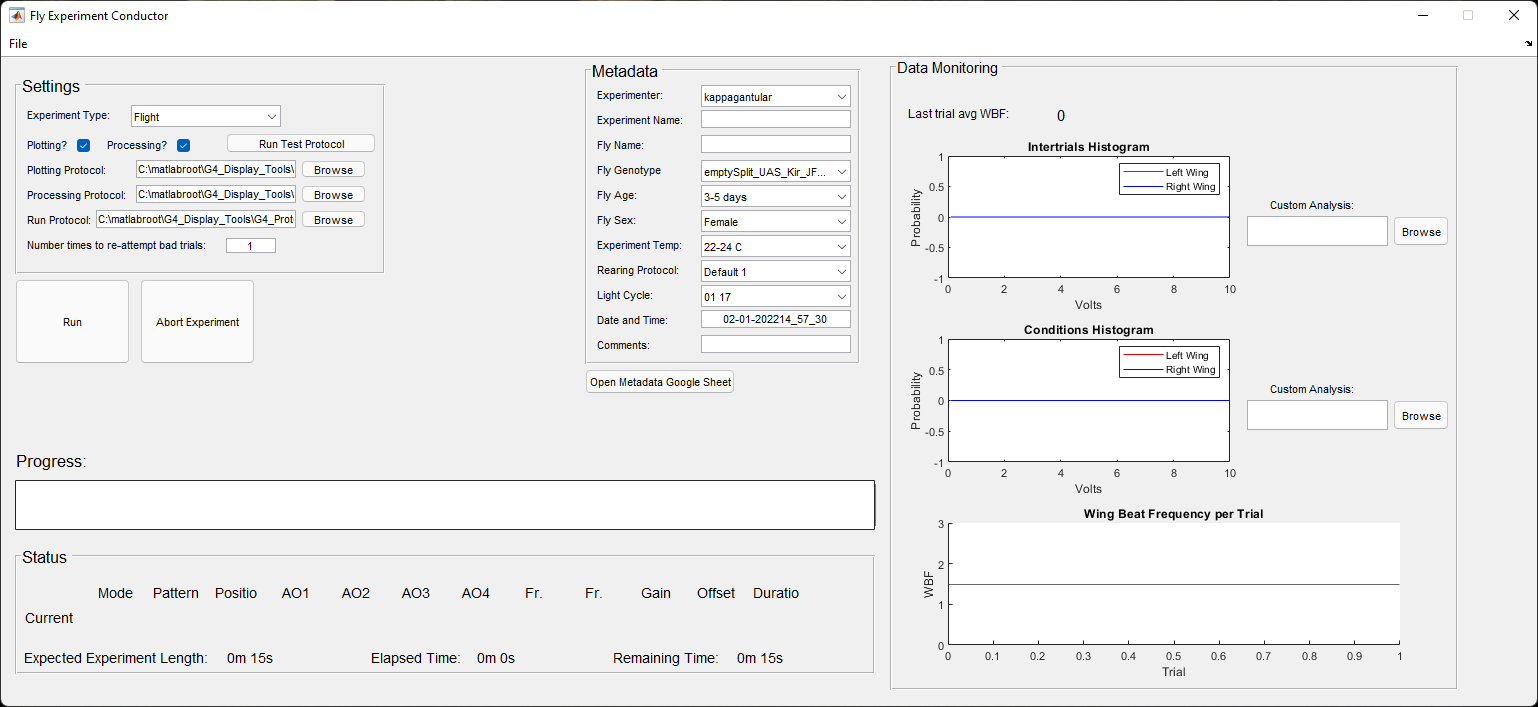
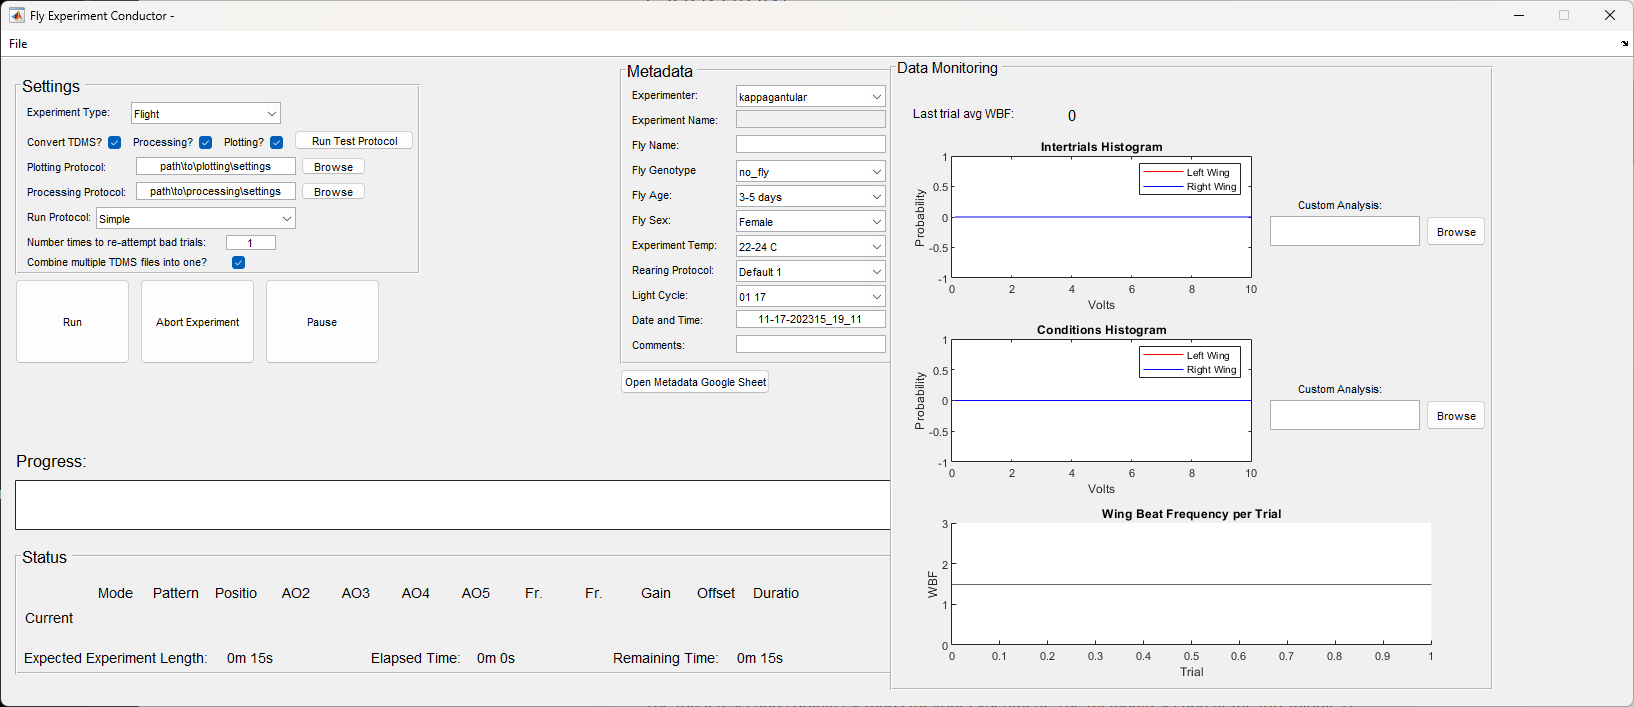
Updated the Conductor documentation to reflect up to date information on the run protocol as well as the conductor settings panel, which has some new items. The tutorial to create one's own run protocol is no longer relevant, as we've removed this option for users, so I updated its header so hopeful

diff --git a/docs/experiment-conductor.md b/docs/experiment-conductor.md
@@ -2,7 +2,6 @@
 title:  G4 Experiment Conductor
 parent: Generation 4
 nav_order: 13
-has_children: true
 has_toc: false
 ---
 
@@ -15,7 +14,7 @@ The G4 Conductor is the application you will use to run an experimental protocol
 
 To open this application directly from the [G4 Designer](protocol-designer.md), click the _Run Trials_{:.gui-btn} on the left side of the Designer window. The experimental protocol that was open in the Designer will automatically be opened in the Conductor, assuming you have saved the experimental protocol.
 
-If the Designer is not open, there is no need to open it. You can open the file `G4_Display_Tools\G4_Protocol_Designer\G4_Experiment_Conductor.m` in MATLAB and hit _Run_{:.gui-btn} to open the Conductor directly.
+If the Designer is not open, there is no need to open it. You can open the file `G4_Display_Tools\G4_Protocol_Designer\G4_Experiment_Conductor.m` in MATLAB and hit _Run_{:.gui-btn}, or type `G4_Experiment_Conductor` into the matlab command window and hit enter, to open the Conductor directly.
 
 The window that opens should look something like this:
 
@@ -52,31 +51,52 @@ This is important because, in the Designer settings, you have a default test pro
 
 ## Processing and Plotting
 
-Select whether you would like the application to perform automatic data processing and/or plotting when the experiment is done.
+There are three checkboxes here labeled `Convert TDMS?`, `Processing?`, and `Plotting?`. 
 
-For this to work, you should have created a data processing settings file and a data analysis settings file earlier in the experiment design process. If processing is checked, the associated filepath should be to your processing settings file, and the same for your plotting (analysis).
+Data collected during the experiment is initially saved in TDMS files, which are difficult to open and work with. If `Convert TDMS?` is selected, the Conductor will automatically convert these TDMS files to a matlab file containing your raw data. This can take a few minutes, depending on the data size and which run protocol is being used. If you do not want the software to spend 1-10 minutes doing this conversion at the end of the experiment, de-select this box. The conversion can be done manually later.  
 
-If you want your data processed and analyzed automatically but have not set up these settings files, please see [Data analysis](data-handling_analysis.md). If you do not wish to use this feature right now, simply uncheck the processing and plotting boxes.
+`Processing` refers to the step after converting the TDMS files to matlab files, which takes the raw data and processes it into datasets that are easier to read and visualize. If you want the Conductor to do this step automatically, you should have created a data processing settings file earlier in the design process. You'll need to provide the path to this settings file in the textbox labeled `Processing Protocol:`
+
+`Plotting` refers to an additional step which takes your processed datasets and automatically generates some plots for you to look at. Again, this requires that a data analysis settings file was created and is provided in the textbox labeled `Plotting Protocol:`
+
+If you want your data processed and plotted automatically but have not set up these settings files, please see [Data analysis](data-handling_analysis.md). If you do not wish to use this feature right now, simply uncheck the processing and plotting boxes.
+
+__Note__: These steps are dependent on one another. You cannot process data that has not been converted from TDMS file to .mat file, and you cannot plot data that has not been processed. So if you select or de-select an option, any that are dependent on it will be automatically selected or de-selected appropriately.
+{:.warning}
+
+
 
 ## Processing and Plotting paths
 
-You must set the paths to three files – the processing and plotting files (if you've selected to use them) and the run protocol file (covered in the next section). The default paths in the settings file will be placed here automatically, so if you don't wish to change from the defaults, you don't have to do anything. However, you can change these without altering the defaults. Hit the _browse_{:.gui-btn} button at the end of each text box to change the file being used in this particular experiment.
+As mentioned above, if you've selected to do automatic processing and/or plotting, you must provide the path to the appropriate settings files. The default paths in the settings file will be placed here automatically, so if you don't wish to change from the defaults, you don't have to do anything. However, you can change these without altering the defaults. Hit the _browse_{:.gui-btn} button at the end of each text box to change the file being used in this particular experiment.
 
 These paths should point to the settings files you generated for data processing and plotting earlier in the process. If you did not set up any settings for data processing or plotting, then uncheck the plotting and processing checkboxes.
 
-- Please note that you cannot change the experiment name in the conductor. The designer, if it is open, and the conductor share the same underlying experiment. If you change the experiment in the designer, it will change in the conductor, but if you have opened the conductor independently, it will not. For this reason, changing the experiment name in the conductor could lead to confusion as to which is experiment is actually loaded. If you must make any changes, close the conductor and go back to the designer.
+__Note__: You cannot change the experiment name in the conductor. The experiment that is open in the Conductor has already been saved and changing the name in the metadata panel could cause confusion. If you need to change anything about your experiment, including the name, please do so in the Designer and re-save it.
+{:.info}
 
-## Run Protocol Path
+## Run Protocol
 
-The run protocol does not refer to the .g4p file, but to a different .m file which controls how exactly the .g4p file is run on the arena. For more details on how exactly the run protocol works, see [this tutorial](experiment-conductor_run-protocol_tutorial.md). There are two default run protocols to choose from: `G4_default_run_protocol.m` and `G4_default_run_protocol_streaming.m`, both located in `G4_Display_Tools/G4_Protocol_Designer/run_protocols`. A third run protocol, called `G4_run_protocol_combinedCommand.m` is also present, but as of now should not be used, as it still has bugs to be worked out.
+The run protocol refers to an .m file which controls how exactly the .g4p file is run on the arena.  There are many run protocols provided with the G4 Display Tools, and they all have slight differences in how the experiment is run or how it is presented to the user. You should select one of the following options: 
 
-Which of the two default protocols you use depends on whether you'd like to use the recently added streaming feature. To use it, the experiment must have non-zero sample rates set for the Analog Input Channels. You set these values in the Designer when creating your experiment.
+`Simple`: This is the most basic, default run protocol. It does not stream any data back to the Conductor for the user to monitor, it logs all the data in one large Log file at the end of the experiment, and it does not use the combined command, which is a way to send all parameters for a condition to the screens simultaneously, rather than one at a time. It is sufficient for most use cases, but if your data is large and you'd like each repetition to have it's own data log, or if you'd like to get histograms of your data as the experiment runs, you'll want to choose a different run protocol.
 
-The streaming feature does two things. First, it collects data from your fly at the end of each trial and plots it on the graphs shown in the Data Monitoring Panel (more on these in the Data Monitoring section below). This allows you to monitor how centered your fly is and how well it is flying. Second, it catches any conditions where the fly was not flying enough, marks them as bad, and attempts to re-run them at the end of the experiment. This way, if the fly successfully runs through the condition on the re-run, you still get data for that condition. The data processing will automatically use the re-run's data instead of the bad data from the first attempt.
+`Streaming` is the same as the simple run protocol, except it utilizes the streaming feature. To use this feature, the experiment must have non-zero sample rates set for the Analog Input Channels. You set these values in the Designer when creating your experiment. The streaming feature does two things. First, it collects data from your fly at the end of each trial and plots it on the graphs shown in the Data Monitoring Panel (more on these in the Data Monitoring section below). This allows you to monitor how centered your fly is and how well it is flying. Second, it catches any conditions where the fly was not flying enough, marks them as bad, and attempts to re-run them at the end of the experiment. This way, if the fly successfully runs through the condition on the re-run, you still get data for that condition. The data processing will automatically use the re-run's data instead of the bad data from the first attempt.
 
-If you'd like to utilize these features in your experiment, all you have to do is set the run protocol to `G4_default_run_protocol_streaming.m`. If you do not want these features, set the run protocol to `G4_default_run_protocol.m`. If you are comfortable with programming in matlab, you can also see [this tutorial](experiment-conductor_run-protocol_tutorial.md) showing how to create your own run protocol.
+`Log Reps Separately` is the same as the simple run protocl, except that every repetition of your experiment is logged separately. If you expect the data to be large, this can keep down the size of your Log files at the end.
+
+`Streaming + Log Reps` is, as it sounds, a run protocol that both streams data and logs repetitions separately.
+
+__Note__: There are other protocols listed called `Combined Command` or including `CC` in their names. These protocols send the parameters for any given condition to the screen via the combined command, which is intended to send all parameters simultaneously rather than one at a time. This command still has bugs we have not worked out, so for right now, please do NOT select these run protocols. Look for an update on this in future releases.
+{:.warning}
 
 Notice the next line in the Conductor asking how many times bad conditions should be re-attempted at the end of the experiment. By default this is set to 1. If you're using the streaming protocol, and a bad condition is re-attempted at the end of the experiment and still fails, it will not be attempted again. You can set this to a higher number, meaning if the first re-attempt fails, the condition will be tried again, up to the number of re-attempts you have set. Keep in mind that if your fly stops flying a lot, your experiment may end up being much longer than originally anticipated if you are re-running multiple trials many times at the end of the experiment. And a fly that stops flying a lot will very likely refuse to fly much at all by the end of a long experiment. Note, however, that you can also set this number to 0. If you set it to 0, you will get the benefit of seeing the fly's data throughout the experiment on the plots provided, but bad conditions will NOT be re-attempted at the end of the experiment.
+
+## Combine TDMS files
+
+The last line in the Settings panel asks if you'd like to combine multiple TDMS files into one. This refers to the .mat files (named G4_TDMS_Logs_timestamp.mat) that the original TDMS files are converted into. If you have de-selected the `Convert TDMS?` option above, then you should de-select this option as well. Otherwise, it is recommended that you leave this box selected.
+
+You will end up with multiple TDMS files if you are using the run protocol that creates separate logs for each repetition, OR if you use the Pause button anytime during your experiment. If you're using the protocol for separate logging, you'll end up with TDMS files for each repetition. If you use the pause button, all data collected after unpausing the experiment will be saved in a new log, since the pause button automatically halts logging. The Conductor can automatically take the converted TDMS files and stitch them together into one file called G4_TDMS_Logs_Final.mat. This file does not replace the separate log files, they'll still be accessible as well. This must be done if you want to use the automatic data processing and analysis tools, but if you are using your own code to process the raw data, then you could de-select this option and skip the step of combining your separate log files into one. 
 
 ## Run a test protocol (optional)
 
@@ -140,6 +160,10 @@ When you are ready to go, hit the _Run Experiment_{:.gui-btn} button. It will ta
 
 If something goes wrong and you need to abort an experiment in the middle, hit the _Abort Experiment_{:.gui-btn} button. This will finish the currently running trial, then stop the experiment. It will automatically clear out any lingering log files, so once you get the dialog box saying the experiment was aborted successfully, you can hit _Run_{:.gui-btn} to restart the experiment.
 
+## Pause an experiment
+
+If for any reason you'd like to pause your experiment for a short time without losing the data you've collected or having to start over, you can hit the _Pause_{:.gui-btn} button. This will stop the experiment as soon as the current trial is finished running. To un-pause the experiment and continue as normal, press _Pause_{:.gui-btn} again. Pausing the experiment will halt all logging and streaming and save the current log file with the experiment data so far. This means when you start up again, all data from that point forward will be collected in a new log file, and at the end you'll end up with two different log files (or more if you pause multiple times). If the option to combine tdms files is selected, these will automatically be stitched back together into one log file at the end.
+
 ## Open a subsequent experiment
 
 If you are done with the experiment currently loaded in the conductor and wish to run another, no need to close the application. Just go to _File_{:.gui-btn} – _open_{:.gui-btn} and open the new experiment. It will automatically replace the old one.
@@ -153,13 +177,3 @@ The conductor can also be opened on its own, without going through the experimen
 ## Data analysis
 
 If you elected to run them, data processing and analysis scripts will run when the experiment is complete. This will create a folder in your experiment folder named by the current date. This date folder will contain a folder for each fly that has been run through that particular experimental protocol on that particular date. In each fly folder will be TDMS log files, a processed data file, as well as some .mat files containing your metadata and experiment information. If you chose to do automatic data plotting, those plots and a pdf report will be saved wherever your analysis settings indicate.
-
-# How to change the run protocol for experiments
-
-## The run protocol
-
-The run protocol does not refer to the .g4p file, but refers to the way in which the experiment parameters in the .g4p file are relayed to the screens. For example, in the default run protocol, no inter-trial is run before the first block trial or after the last, though an inter-trial is run between repetitions of the block trials. If you wanted to change this, you could make the change and save as a new run protocol. Please only do this if you are comfortable writing MATLAB scripts to run experiments on the LED arena, and never delete the two default run protocols.
-
-If you create your own run protocol, please do not forget that you must change the path in the conductor to your new file.
-
-The default run protocol file is heavily commented to help you understand what each piece of code does, but if you are confused about something, you can always contact [Lisa (Taylor) Ferguson](mailto:taylorl@janelia.hhmi.org).

diff --git a/docs/experiment-conductor_run-protocol_tutorial.md b/docs/experiment-conductor_run-protocol_tutorial.md
@@ -1,7 +1,5 @@
 ---
 title:  Tutorial - Design your own run protocol
-parent: G4 Experiment Conductor
-grand_parent: Generation 4
 nav_order: 1
 ---
 
